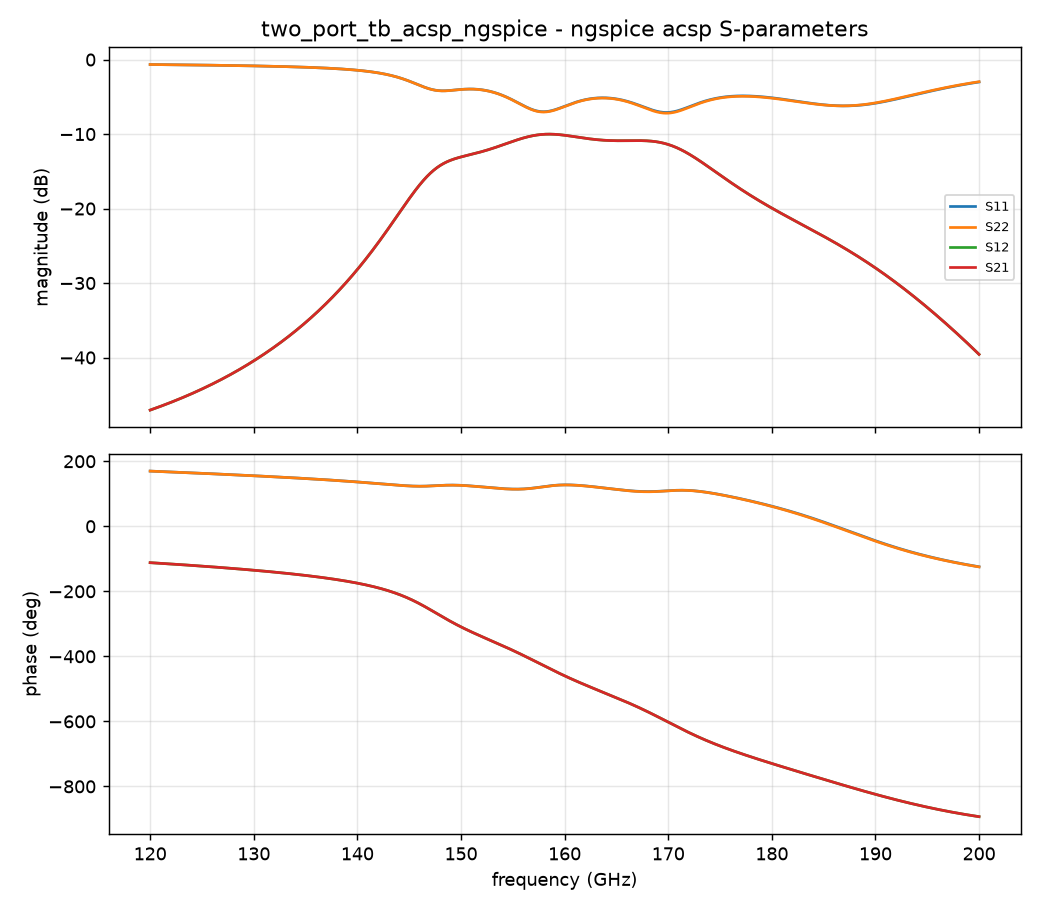
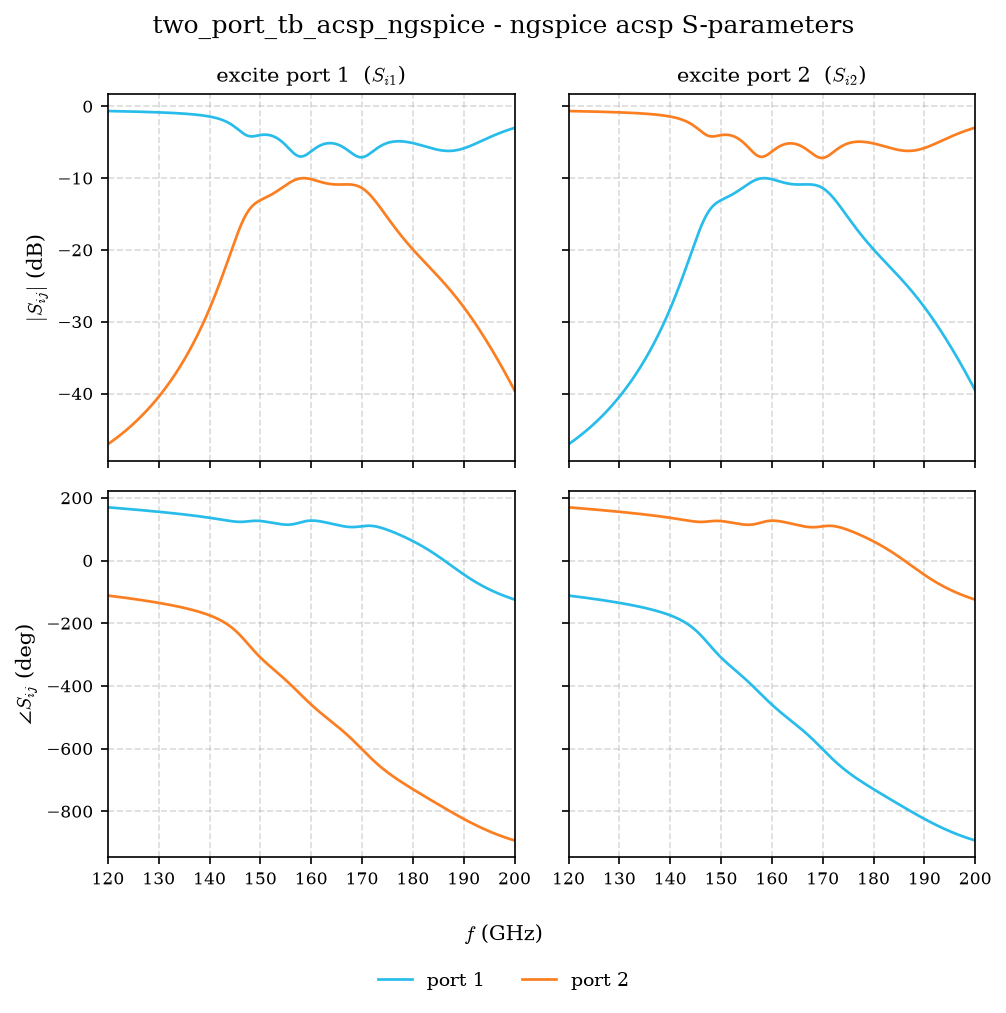
updated plotting scripts for fancier plots

diff --git a/testbenches/xschem/plot_simulations/sparam_plot.py b/testbenches/xschem/plot_simulations/sparam_plot.py
@@ -1,0 +1,92 @@
+# SPDX-FileCopyrightText: 2026 Simon Dorrer
+# SPDX-License-Identifier: Apache-2.0
+# sparam_plot.py
+#
+# Shared S-parameter figure layout for the acsp plotting scripts.
+#
+# Both plot_n_port_tb_acsp_ngspice.py and plot_n_port_tb_acsp_vacask.py draw their
+# figures through this module, so the ngspice and VACASK results are directly
+# comparable side by side.
+#
+# An N-port testbench has N x N S-parameters, which is unreadable in a single pair of
+# axes (a four-port already has 16).  The figure is therefore split by excitation port:
+# one column of axes per driven port j, magnitude on top and phase below, so each panel
+# holds only the N traces that belong to one excitation.  The color encodes the
+# receiving port i and is the same in every panel, so a single legend serves the whole
+# figure.  Derived columns that are not a plain S(i,j) are drawn in one extra column on
+# the right.
+import os
+
+
+def set_style(plt):
+    """Matplotlib settings shared by all acsp plots."""
+    plt.rcParams.update({
+        "font.family": "serif",
+        "mathtext.fontset": "cm",
+        "font.size": 10,
+        "axes.titlesize": 10,
+        "axes.axisbelow": True,
+        "grid.linestyle": "--",
+        "grid.alpha": 0.45,
+        "legend.handlelength": 1.8,
+    })
+
+
+def plot_sgrid(plt, png, title, fghz, n, mag, phase, extra=()):
+    """Write the S-parameter figure.
+
+    mag(i, j) / phase(i, j) return the magnitude in dB / phase in deg of S(i,j), or None
+    if that parameter is missing.  extra is a sequence of (label, magnitude, phase) for
+    columns that are not a plain S(i,j).
+    """
+    ncols = n + (1 if extra else 0)
+    fig, axes = plt.subplots(2, ncols, figsize=(2.7 * ncols + 1.4, 6.4),
+                             sharex=True, sharey="row", squeeze=False)
+    cmap = plt.get_cmap("turbo")
+    colors = [cmap((i - 0.5) / n) for i in range(1, n + 1)]
+
+    for j in range(1, n + 1):                   # one column per excitation port
+        ax_mag, ax_phase = axes[0][j - 1], axes[1][j - 1]
+        for i in range(1, n + 1):
+            m, p = mag(i, j), phase(i, j)
+            if m is not None:
+                ax_mag.plot(fghz, m, color=colors[i - 1], linewidth=1.3,
+                            label=f"port {i}" if j == 1 else None)
+            if p is not None:
+                ax_phase.plot(fghz, p, color=colors[i - 1], linewidth=1.3)
+        ax_mag.set_title(rf"excite port {j}  ($S_{{i{j}}}$)")
+
+    if extra:                                   # derived / combined responses
+        ax_mag, ax_phase = axes[0][-1], axes[1][-1]
+        styles = ["-", "--", "-.", ":"]
+        for k, (label, m, p) in enumerate(extra):
+            color = cmap((k + 0.5) / max(1, len(extra)))
+            style = styles[k % len(styles)]
+            if m is not None:
+                ax_mag.plot(fghz, m, color=color, linestyle=style, linewidth=1.3,
+                            label=label)
+            if p is not None:
+                ax_phase.plot(fghz, p, color=color, linestyle=style, linewidth=1.3)
+        ax_mag.set_title("combinations")
+        ax_mag.legend(fontsize=7, frameon=False)
+
+    axes[0][0].set_ylabel(r"$|S_{ij}|$ (dB)")
+    axes[1][0].set_ylabel(r"$\angle S_{ij}$ (deg)")
+    for row in axes:
+        for ax in row:
+            ax.grid(visible=True, which="major")
+            ax.margins(x=0)
+            ax.tick_params(labelsize=8)
+    fig.supxlabel(r"$f$ (GHz)", fontsize=10)
+    fig.suptitle(title)
+    fig.tight_layout()
+
+    # One legend for the whole figure: the color means the same receiving port i in
+    # every panel, so labelling it once is enough.  Anchored just below the figure (in
+    # figure coordinates) so it clears the x-label; bbox_inches="tight" grows the canvas.
+    fig.legend(*axes[0][0].get_legend_handles_labels(), loc="upper center",
+               ncol=n, fontsize=9, frameon=False, bbox_to_anchor=(0.5, 0.0))
+
+    os.makedirs(os.path.dirname(png), exist_ok=True)
+    fig.savefig(png, dpi=150, bbox_inches="tight")   # grows to fit the legend
+    return png

diff --git a/testbenches/xschem/plot_simulations/plot_n_port_tb_acsp_ngspice.py b/testbenches/xschem/plot_simulations/plot_n_port_tb_acsp_ngspice.py
@@ -19,9 +19,11 @@
 # written).
 import glob
 import os
+import re
 import sys
 
 import ngspice2python as ng
+import sparam_plot as sp
 
 # Data and output paths relative to this script (testbenches/xschem/plot_simulations)
 SCRIPT_DIR = os.path.dirname(os.path.abspath(__file__))
@@ -41,26 +43,32 @@ def plot_table(tb, plt):
                  "'frequency' - it is not an acsp result table")
 
     fghz = ng.loadngspicecol(table, names[0]) / 1e9
-    db_names = [n for n in names[1:] if n.endswith("_db")]
-    deg_names = [n for n in names[1:] if n.endswith("_deg")]
+    bases = [n[:-3] for n in names[1:] if n.endswith("_db")]
 
-    fig, (ax_mag, ax_phase) = plt.subplots(2, 1, figsize=(8, 7), sharex=True)
-    for n in db_names:
-        ax_mag.plot(fghz, ng.loadngspicecol(table, n), label=n[:-3].upper())
-    for n in deg_names:
-        ax_phase.plot(fghz, ng.loadngspicecol(table, n), label=n[:-4].upper())
-    ncol = max(1, min(4, (len(db_names) + 3) // 4))
-    ax_mag.set_title(f"{tb} - ngspice acsp S-parameters")
-    ax_mag.set_ylabel("magnitude (dB)")
-    ax_mag.grid(True, alpha=0.3)
-    ax_mag.legend(ncol=ncol, fontsize=7)
-    ax_phase.set_ylabel("phase (deg)")
-    ax_phase.set_xlabel("frequency (GHz)")
-    ax_phase.grid(True, alpha=0.3)
-    fig.tight_layout()
+    def col(base, suffix):
+        name = base + suffix
+        return ng.loadngspicecol(table, name) if name in names else None
 
-    png = os.path.join(FIGURES_DIR, tb + ".png")
-    fig.savefig(png, dpi=130)
+    # Sort the S-parameters into an S(i,j) grid; columns that are not a plain sIJ go
+    # to the extra panel.
+    grid, extra = {}, []
+    for base in bases:
+        m = re.fullmatch(r"s(\d)(\d)", base)
+        if m:
+            grid[(int(m.group(1)), int(m.group(2)))] = base
+        else:
+            extra.append((base.upper(), col(base, "_db"), col(base, "_deg")))
+    n_ports = max((i for i, _ in grid), default=0)
+
+    def mag(i, j):
+        return col(grid[(i, j)], "_db") if (i, j) in grid else None
+
+    def phase(i, j):
+        return col(grid[(i, j)], "_deg") if (i, j) in grid else None
+
+    png = sp.plot_sgrid(plt, os.path.join(FIGURES_DIR, tb + ".png"),
+                        f"{tb} - ngspice acsp S-parameters", fghz, n_ports,
+                        mag, phase, extra)
     print(f"plot: wrote {png}")
 
 
@@ -78,10 +86,13 @@ def main():
                      "run a testbench first")
 
     os.makedirs(FIGURES_DIR, exist_ok=True)
+    import matplotlib
     import matplotlib.pyplot as plt             # headless, matplotlib falls back to Agg
+    sp.set_style(plt)
     for tb in tbs:
         plot_table(tb, plt)
-    plt.show()
+    if matplotlib.get_backend().lower() != "agg":   # no window without a display
+        plt.show()
 
 
 if __name__ == "__main__":

diff --git a/testbenches/xschem/plot_simulations/plot_n_port_tb_acsp_vacask.py b/testbenches/xschem/plot_simulations/plot_n_port_tb_acsp_vacask.py
@@ -153,22 +153,14 @@ def main():
         matplotlib.use("Agg")
     import matplotlib.pyplot as plt
 
-    fig, (axm, axp) = plt.subplots(2, 1, figsize=(8, 7), sharex=True)
-    fghz = f / 1e9
-    for i in range(1, n + 1):
-        for j in range(1, n + 1):
-            lab = f"S{i}{j}"
-            axm.plot(fghz, dB[(i, j)], label=lab)
-            axp.plot(fghz, deg[(i, j)], label=lab)
-    axm.set_title(f"{n}-port, VACASK acsp S-parameters")
-    axm.set_ylabel("magnitude (dB)"); axm.grid(True, alpha=0.3)
-    axm.legend(ncol=min(n, 4), fontsize=7)
-    axp.set_ylabel("phase (deg)"); axp.set_xlabel("frequency (GHz)")
-    axp.grid(True, alpha=0.3)
-    fig.tight_layout()
-    os.makedirs(FIGURES_DIR, exist_ok=True)
-    png = os.path.join(FIGURES_DIR, TB + ".png")
-    fig.savefig(png, dpi=130)
+    # exec'd by VACASK: no script dir on sys.path, and HERE is then the netlist dir, so
+    # derive the module's folder from _BASE (the testbench dir) instead.
+    sys.path.insert(0, os.path.join(_BASE, "plot_simulations"))
+    import sparam_plot as sp
+    sp.set_style(plt)
+    png = sp.plot_sgrid(plt, os.path.join(FIGURES_DIR, TB + ".png"),
+                        f"{TB} - VACASK acsp S-parameters", f / 1e9, n,
+                        lambda i, j: dB[(i, j)], lambda i, j: deg[(i, j)])
     print(f"postprocess: wrote {png}")
     if os.environ.get("SHOW_PLOTS"):
         plt.show()
